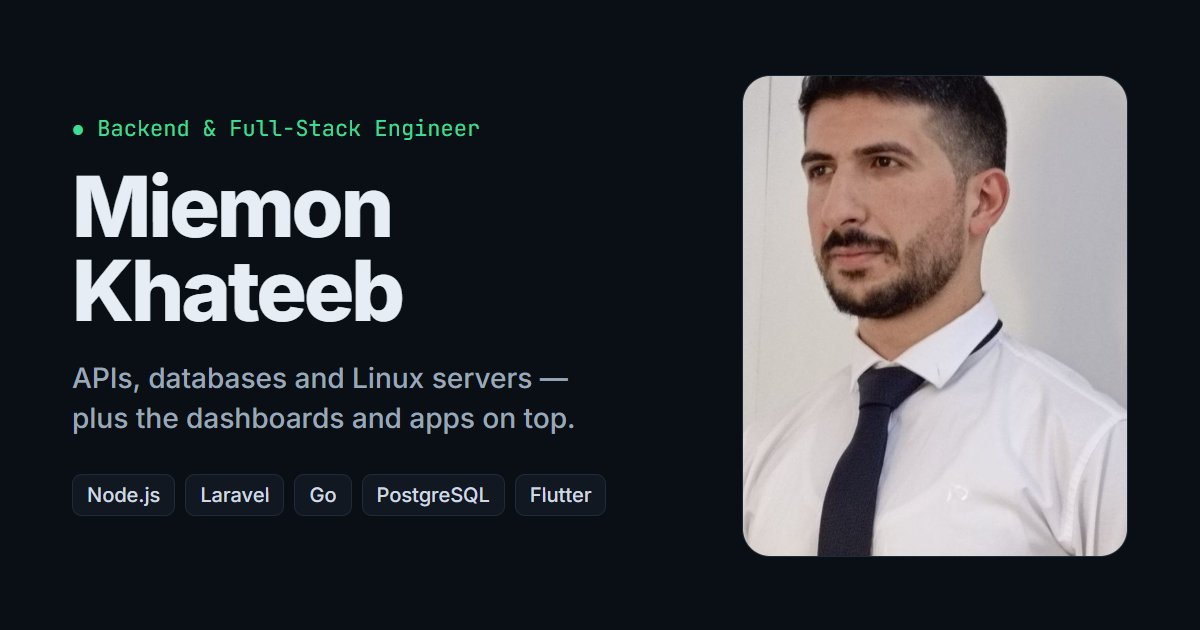
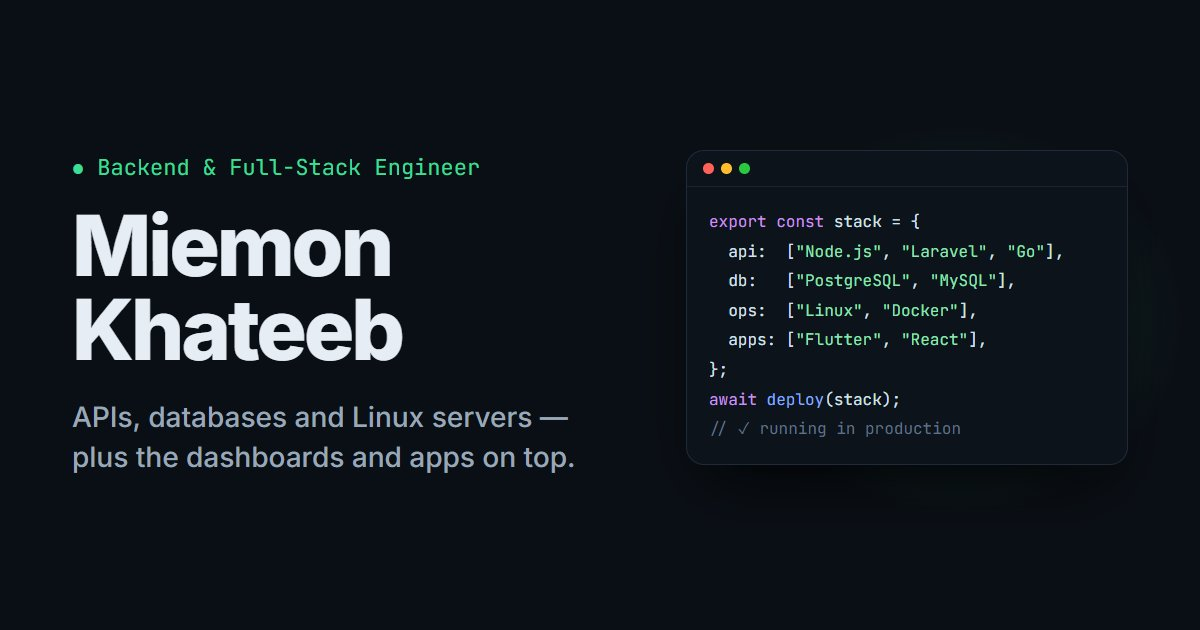
Remove profile photo, show stats as lower bounds
- Hero uses the code card as its visual instead of a photo
- Stats: 5+ live apps & platforms, 3+ countries
- Drop per-group project counts; add 'and more' to the extra projects line
- Regenerate social preview image without the photo

diff --git a/assets/css/style.css b/assets/css/style.css
@@ -145,25 +145,23 @@ html[lang="ar"] .hero__name { letter-spacing: 0; line-height: 1.2; font-weight: 
 }
 .social:hover { color: var(--text); border-color: var(--faint); }
 
-.hero__visual { position: relative; justify-self: end; width: 100%; max-width: 380px; }
-.portrait {
-  margin: 0; aspect-ratio: 4 / 5; border-radius: 24px; overflow: hidden; background: var(--surface-2);
-  border: 1px solid var(--border); box-shadow: var(--shadow);
+.hero__visual { position: relative; isolation: isolate; justify-self: end; width: 100%; max-width: 440px; }
+.hero__visual::before {
+  content: ""; position: absolute; inset: -28px -20px; z-index: -1; border-radius: 32px;
+  background: radial-gradient(60% 60% at 60% 40%, color-mix(in srgb, var(--accent) 22%, transparent), transparent 70%);
+  filter: blur(8px);
 }
-.portrait img { width: 100%; height: 100%; object-fit: cover; object-position: 50% 12%; }
 .codecard {
-  position: absolute; left: -64px; bottom: -28px; width: 300px;
-  background: var(--code-bg); color: var(--code-text); border-radius: 14px; border: 1px solid rgba(255, 255, 255, .08);
-  box-shadow: 0 18px 40px -18px rgba(0, 0, 0, .55); overflow: hidden; text-align: left;
+  width: 100%;
+  background: var(--code-bg); color: var(--code-text); border-radius: 16px; border: 1px solid rgba(255, 255, 255, .08);
+  box-shadow: 0 24px 50px -22px rgba(0, 0, 0, .55); overflow: hidden; text-align: left;
 }
 .codecard__bar { display: flex; align-items: center; gap: 6px; padding: 9px 12px; border-bottom: 1px solid rgba(255, 255, 255, .07); }
 .codecard__bar i { width: 9px; height: 9px; border-radius: 50%; background: #3a4654; }
 .codecard__bar i:first-child { background: #ff6159; } .codecard__bar i:nth-child(2) { background: #ffbd2e; } .codecard__bar i:nth-child(3) { background: #28c941; }
 .codecard__bar span { margin-left: 8px; font-family: var(--mono); font-size: 11px; color: #7f8ea0; }
-.codecard pre { margin: 0; padding: 12px 14px 14px; font-family: var(--mono); font-size: 11.5px; line-height: 1.7; overflow: hidden; }
-.codecard .k { color: #c792ea; } .codecard .s { color: #8ee6b4; }
-/* the card is forced LTR, so position it physically: it overlaps toward the text column */
-[dir="rtl"] .codecard { left: auto; right: -64px; }
+.codecard pre { margin: 0; padding: 18px 20px 20px; font-family: var(--mono); font-size: 13.5px; line-height: 1.8; overflow: hidden; }
+.codecard .k { color: #c792ea; } .codecard .s { color: #8ee6b4; } .codecard .f { color: #82aaff; } .codecard .c { color: #5f7186; }
 
 /* ── stats ──────────────────────────────────────────────── */
 .stats { display: grid; grid-template-columns: repeat(4, 1fr); gap: 0; padding-top: 24px; padding-bottom: 8px; }
@@ -235,7 +233,6 @@ html[lang="ar"] .job__when { font-family: var(--font-ar); font-size: 14px; }
 .pgroup + .pgroup, .also + .pgroup { margin-top: 40px; }
 .pgroup__head { display: flex; flex-wrap: wrap; align-items: baseline; justify-content: space-between; gap: 8px; margin-bottom: 16px; }
 .pgroup__head h3 { font-size: 18px; font-weight: 700; display: flex; align-items: center; gap: 10px; }
-.count { font-family: var(--mono); font-size: 12px; font-weight: 500; color: var(--muted); background: var(--surface-2); border: 1px solid var(--border); border-radius: 6px; padding: 1px 7px; }
 .pgroup__note { font-size: 13px; color: var(--faint); }
 .grid { display: grid; grid-template-columns: repeat(3, 1fr); gap: 16px; }
 .project { padding: 20px; display: flex; flex-direction: column; gap: 14px; transition: transform .2s, border-color .2s; }
@@ -301,15 +298,13 @@ a.plink:hover { border-color: var(--accent); color: var(--accent); }
   .skillgroup--1 ul { display: grid; grid-template-columns: 1fr 1fr; column-gap: 24px; }
   .skillgroup--1 li:nth-child(2) { border-top: 0; padding-top: 0; }
   .nav a { padding: 7px 9px; }
-  .codecard { inset-inline-start: -32px; }
+  .codecard pre { font-size: 12.5px; padding: 16px; }
 }
 @media (max-width: 860px) {
   .nav { display: none; }
   .topbar__actions { margin-inline-start: auto; }
   .hero { grid-template-columns: 1fr; gap: 40px; padding-top: 44px; }
-  .hero__visual { justify-self: start; max-width: 300px; order: -1; }
-  .codecard { display: none; }
-  .portrait { aspect-ratio: 1; width: 132px; border-radius: 20px; }
+  .hero__visual { justify-self: start; max-width: 460px; }
   .stats { grid-template-columns: 1fr 1fr; gap: 0; }
   .stat { padding: 16px 0; border-inline-start: 0; border-top: 1px solid var(--border); }
   .stat:nth-child(even) { padding-inline-start: 20px; border-inline-start: 1px solid var(--border); }
@@ -323,6 +318,8 @@ a.plink:hover { border-color: var(--accent); color: var(--accent); }
   .skillgroup--1 ul { grid-template-columns: 1fr; }
   .skillgroup--1 li:nth-child(2) { border-top: 1px dashed var(--border); padding-top: 10px; }
   .hero__lead { font-size: 16.5px; }
+  .hero__visual { display: none; }
+  .hero { padding-top: 36px; }
   .section { padding-top: 64px; }
   .brand__name { display: none; }
   .hero__cta .btn, .hero__cta .dropdown { flex: 1 1 auto; }

diff --git a/assets/js/main.js b/assets/js/main.js
@@ -97,16 +97,17 @@
         "</div>" +
       "</div>" +
       '<div class="hero__visual">' +
-        '<figure class="portrait"><img src="' + esc(p.photo) + '" alt="' + esc(t(p.name)) + '" width="560" height="700"></figure>' +
         '<div class="codecard" dir="ltr" aria-hidden="true">' +
           '<div class="codecard__bar"><i></i><i></i><i></i><span>stack.ts</span></div>' +
           "<pre><code>" +
             '<span class="k">export const</span> stack = {\n' +
             '  api:  [<span class="s">"Node.js"</span>, <span class="s">"Laravel"</span>, <span class="s">"Go"</span>],\n' +
-            '  db:   [<span class="s">"PostgreSQL"</span>, <span class="s">"MySQL"</span>],\n' +
-            '  ops:  [<span class="s">"Linux"</span>, <span class="s">"Docker"</span>, <span class="s">"Nginx"</span>],\n' +
+            '  db:   [<span class="s">"PostgreSQL"</span>, <span class="s">"MySQL"</span>, <span class="s">"MongoDB"</span>],\n' +
+            '  ops:  [<span class="s">"Linux"</span>, <span class="s">"Docker"</span>, <span class="s">"Nginx"</span>, <span class="s">"Redis"</span>],\n' +
             '  apps: [<span class="s">"Flutter"</span>, <span class="s">"React"</span>],\n' +
-            "};" +
+            "};\n\n" +
+            '<span class="k">await</span> <span class="f">deploy</span>(stack);\n' +
+            '<span class="c">// ✓ running in production</span>' +
           "</code></pre>" +
         "</div>" +
       "</div>";
@@ -170,8 +171,7 @@
     var body = shown.length
       ? '<div class="grid">' + shown.map(projectCard).join("") + "</div>"
       : '<p class="empty">' + esc(t(D.ui.noMatch)) + "</p>";
-    return '<div class="pgroup"><div class="pgroup__head"><h3>' + esc(t(title)) +
-      ' <span class="count">' + shown.length + "</span></h3>" +
+    return '<div class="pgroup"><div class="pgroup__head"><h3>' + esc(t(title)) + "</h3>" +
       (note ? '<span class="pgroup__note">' + note + "</span>" : "") + "</div>" + body + "</div>";
   }
 
@@ -180,7 +180,7 @@
       return '<button type="button" class="filter" data-filter="' + f.key + '" aria-pressed="' + (state.filter === f.key) + '">' + esc(t(f.label)) + "</button>";
     }).join("");
     var also = state.filter === "all"
-      ? '<p class="also"><span>' + esc(t(D.alsoWorkedOn.title)) + ":</span> " + D.alsoWorkedOn.items.map(esc).join(" · ") + "</p>"
+      ? '<p class="also"><span>' + esc(t(D.alsoWorkedOn.title)) + ":</span> " + D.alsoWorkedOn.items.map(esc).join(" · ") + " · " + esc(t(D.alsoWorkedOn.more)) + "</p>"
       : "";
     var note = esc(t(D.ui.personalNote));
     $("#projects").innerHTML = sectionHead("03", D.ui.projectsTitle, D.ui.projectsSub) +

diff --git a/assets/js/data.js b/assets/js/data.js
@@ -14,7 +14,6 @@ window.PORTFOLIO = {
       ar: "أبني واجهات برمجية (APIs) وقواعد بيانات موثوقة وسيرفرات لينكس التي تعمل عليها، ثم أُطلق فوقها لوحات تحكم ويب وتطبيقات Flutter. أكثر من 5 سنوات في تسليم أنظمة إنتاجية لعملاء في سوريا والعراق والإمارات."
     },
     location: { en: "Damascus, Syria · works remotely", ar: "دمشق، سوريا · أعمل عن بُعد" },
-    photo: "assets/img/profile.jpg",
     email: "mimonkh544@gmail.com",
     phone: "+963 993 552 535",
     whatsapp: "963993552535",
@@ -29,8 +28,8 @@ window.PORTFOLIO = {
   stats: [
     { value: "5+", label: { en: "years of experience", ar: "سنوات خبرة" } },
     { value: "15+", label: { en: "production projects", ar: "مشروع في الإنتاج" } },
-    { value: "4", label: { en: "live apps on Google Play", ar: "تطبيقات منشورة على Google Play" } },
-    { value: "3", label: { en: "countries served", ar: "دول خدمت عملاء فيها" } }
+    { value: "5+", label: { en: "live apps & platforms", ar: "تطبيقات ومنصات تعمل حالياً" } },
+    { value: "3+", label: { en: "countries served", ar: "دول خدمت عملاء فيها" } }
   ],
 
   // level: 3 = expert, 2 = strong, 1 = background
@@ -234,7 +233,8 @@ window.PORTFOLIO = {
 
   alsoWorkedOn: {
     title: { en: "Also delivered", ar: "مشاريع أخرى سلّمتها" },
-    items: ["ComCamp", "Goaluck", "CrowdFunding", "Al-Ajami", "Shifacom", "Foryou-Market", "WARSHA"]
+    items: ["ComCamp", "Goaluck", "CrowdFunding", "Al-Ajami", "Shifacom", "Foryou-Market", "WARSHA"],
+    more: { en: "and more", ar: "وغيرها" }
   },
 
   personalProjects: [

diff --git a/README.md b/README.md
@@ -12,7 +12,6 @@
   - `featured: true` بيخلي المشروع بطاقة عريضة بأول القائمة.
 - LinkedIn: حط الرابط بـ `profile.linkedin` وبيطلع لحاله بالموقع.
 - تواريخ نهاية الوظائف: عدّل `period` بكل وظيفة بـ `experience`.
-- الصورة: `assets/img/profile.jpg` (نسبة 4:5).
 - السير الذاتية: `assets/cv/` — إذا حدّثت الـ CV، استبدل الملف بنفس الاسم.
 
 ## التجربة محلياً
